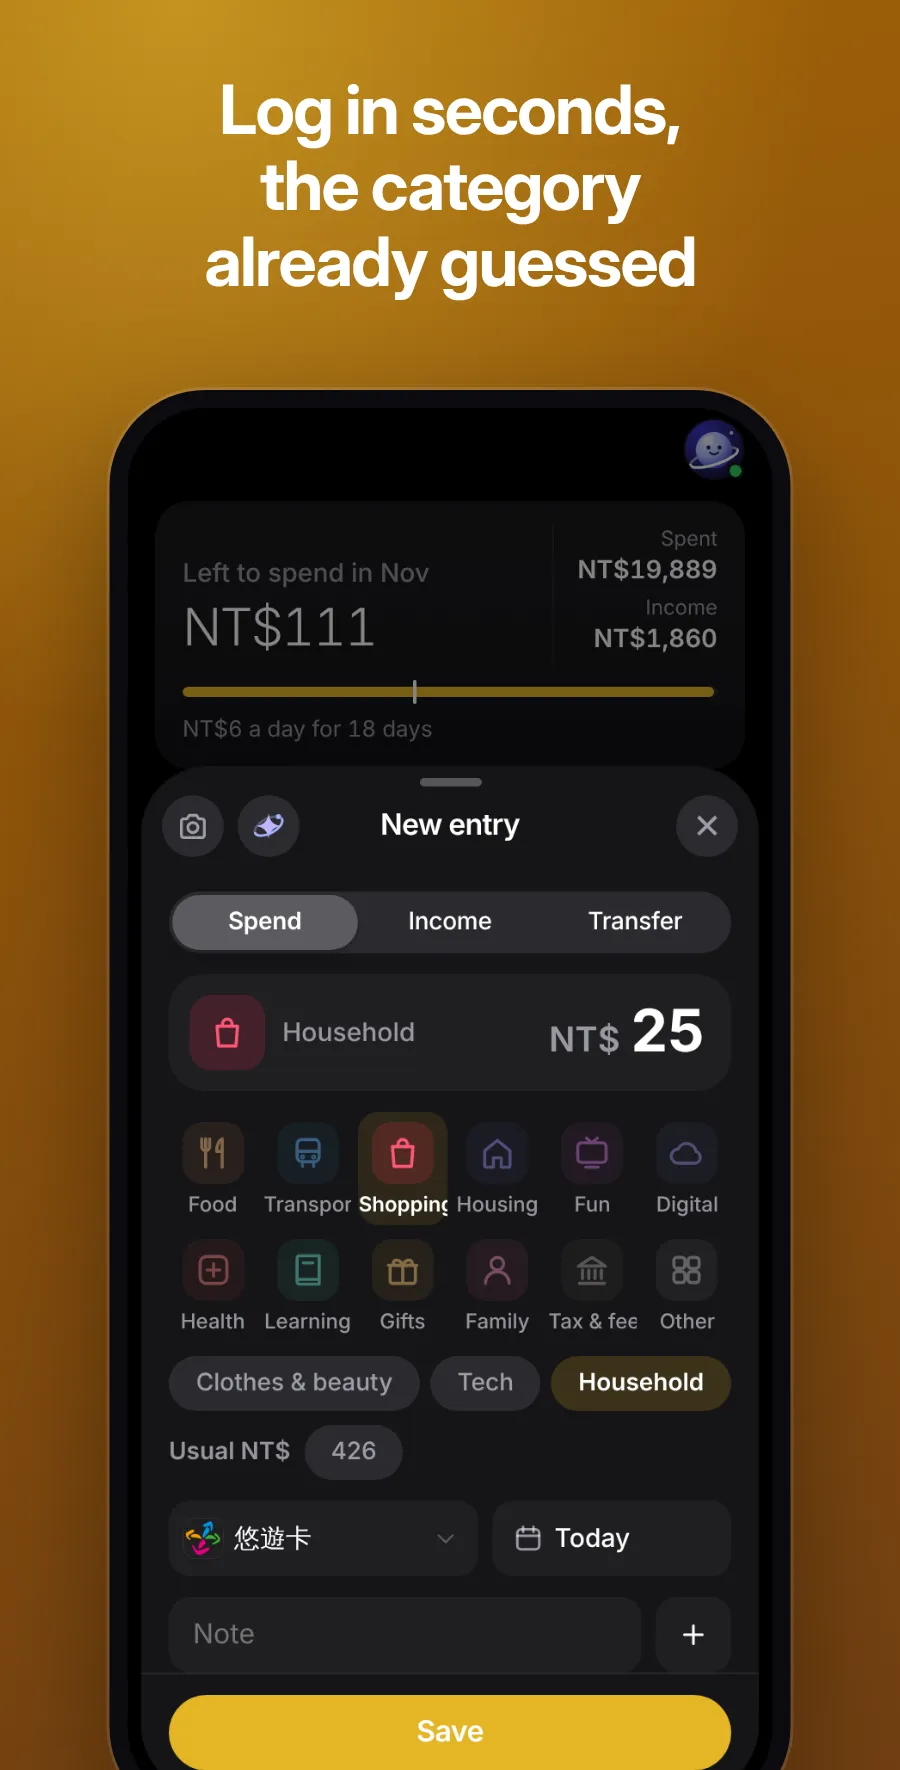
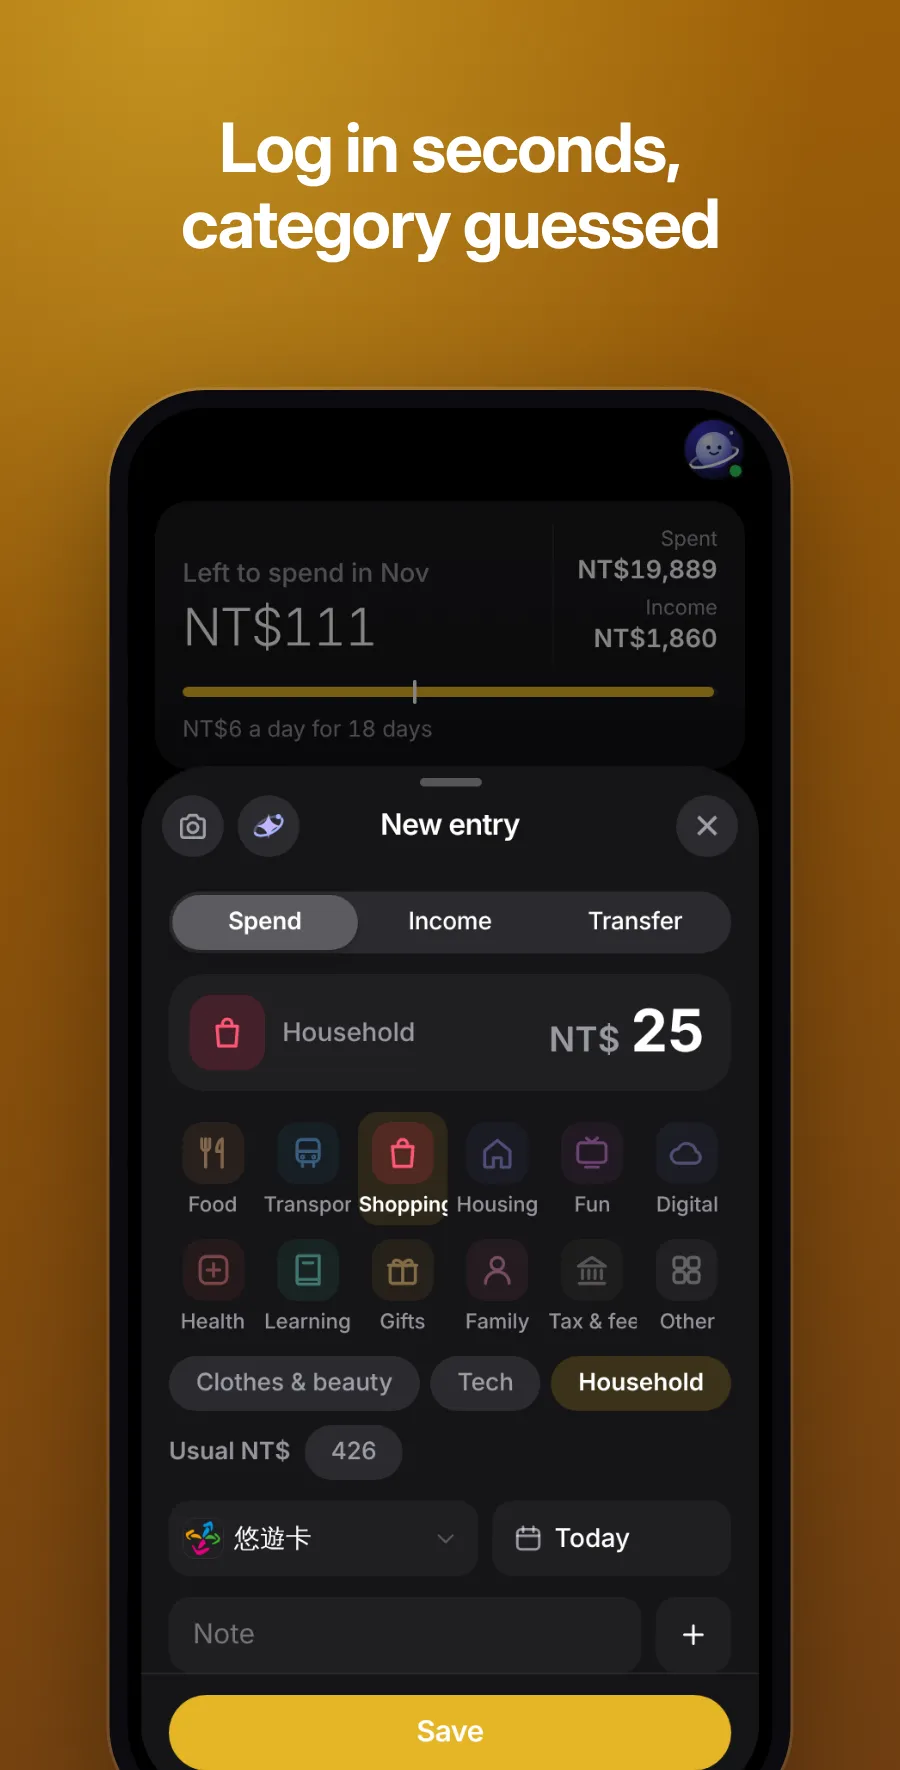
README screenshots: shorter English headlines
Claude-Session: https://claude.ai/code/session_01DckgWMZUMTVhMRS1sMRz4M

Changed region(s): [[0.1867, 0.0311, 0.8089, 0.1864]]

diff --git a/README.md b/README.md
@@ -17,7 +17,7 @@ Your own books for real money: what you spend each day, what each account holds,
 
 <p align="center">
   <img src="docs/screenshots/money-1.webp" width="30%" alt="Your month, at a glance">
-  <img src="docs/screenshots/money-2.webp" width="30%" alt="Log in seconds, the category already guessed">
+  <img src="docs/screenshots/money-2.webp" width="30%" alt="Log in seconds, category guessed">
   <img src="docs/screenshots/money-3.webp" width="30%" alt="Where the money went">
 </p>
 
